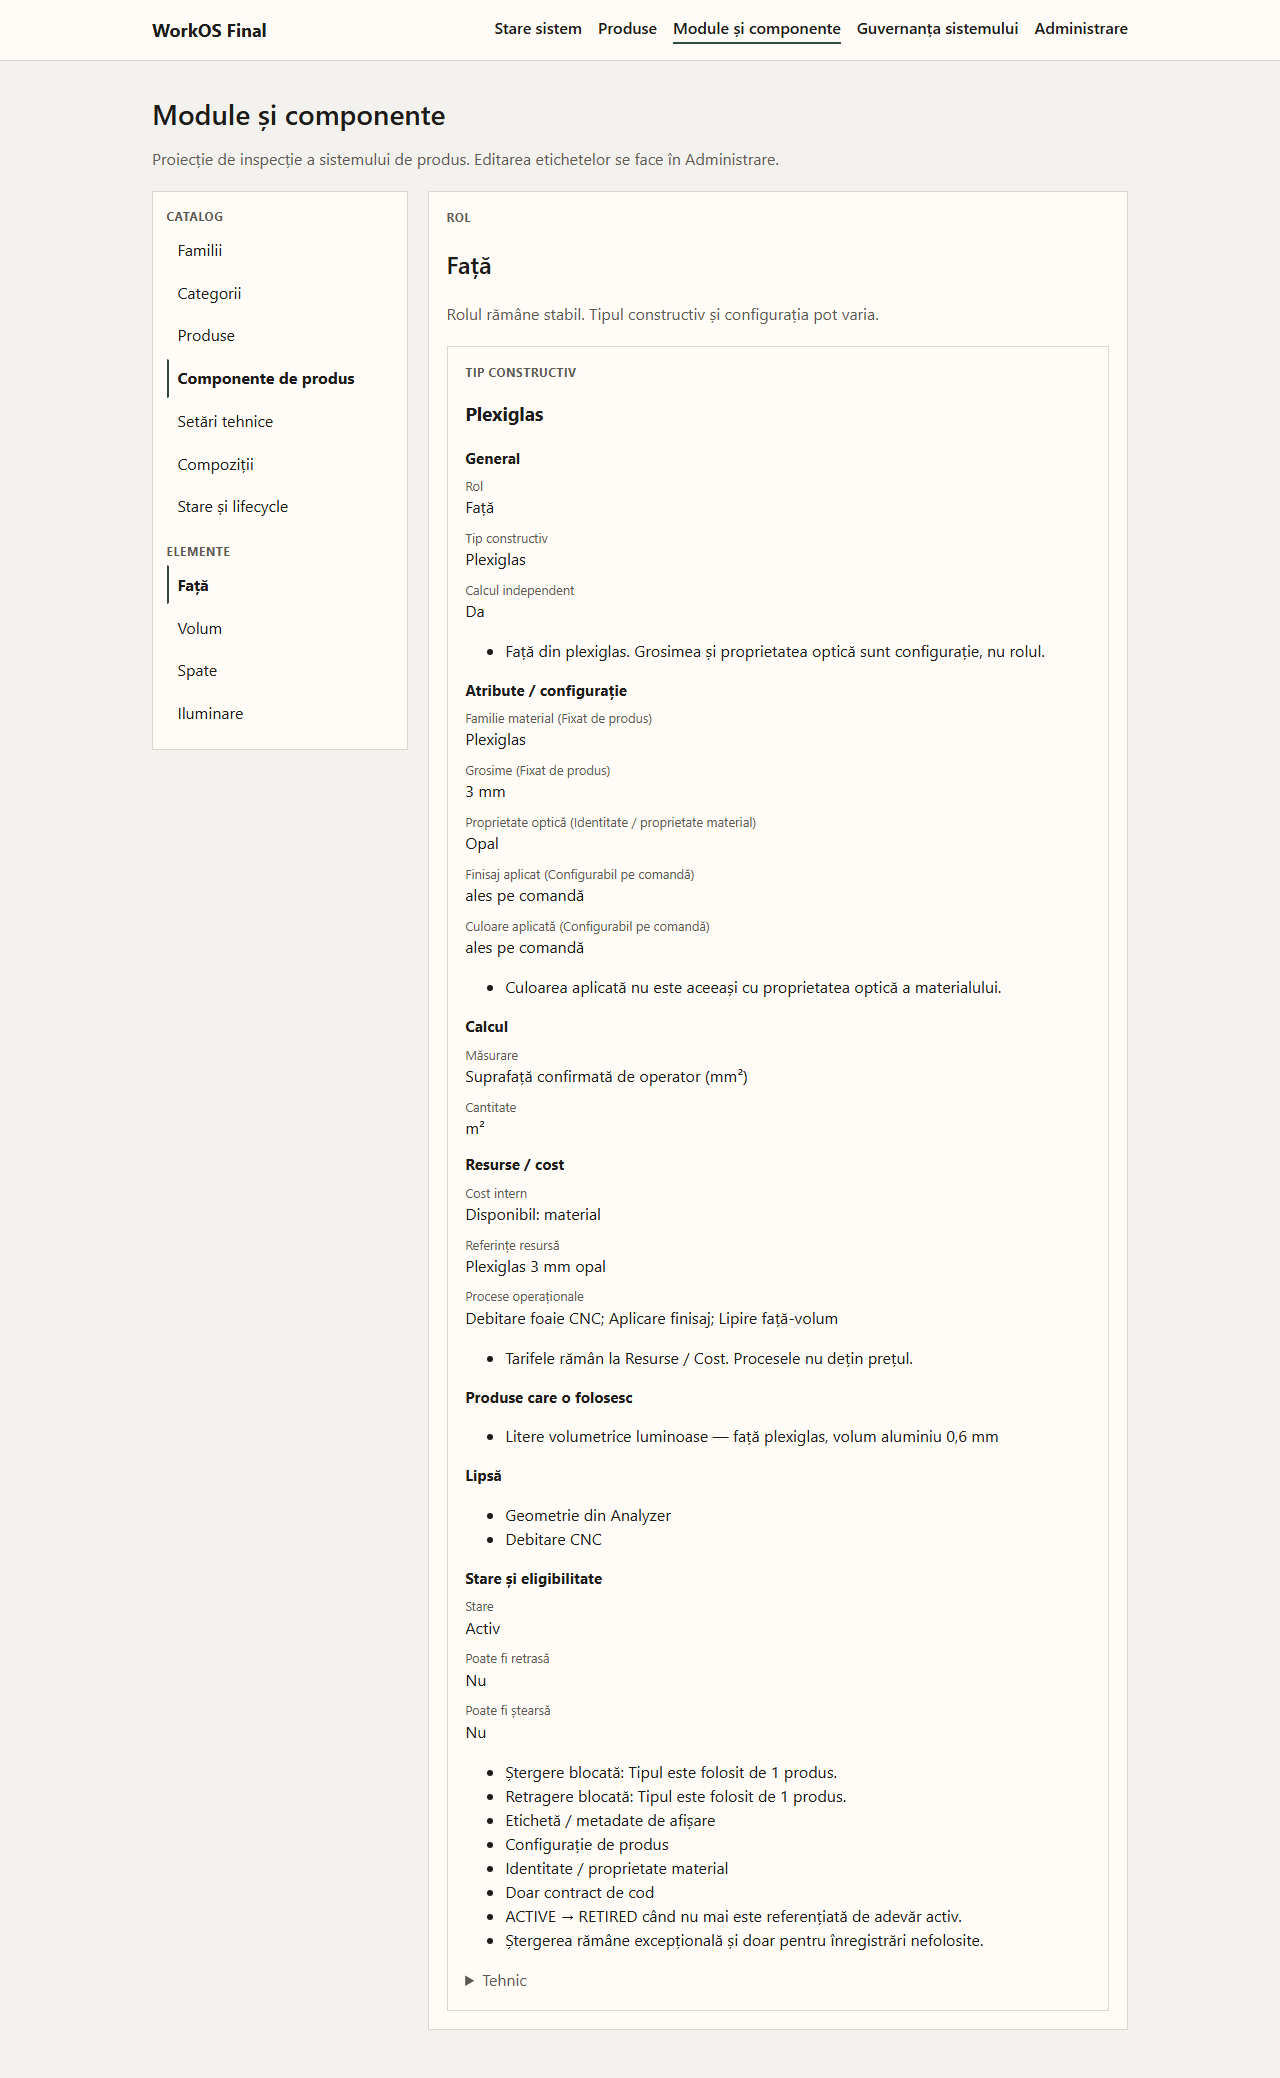
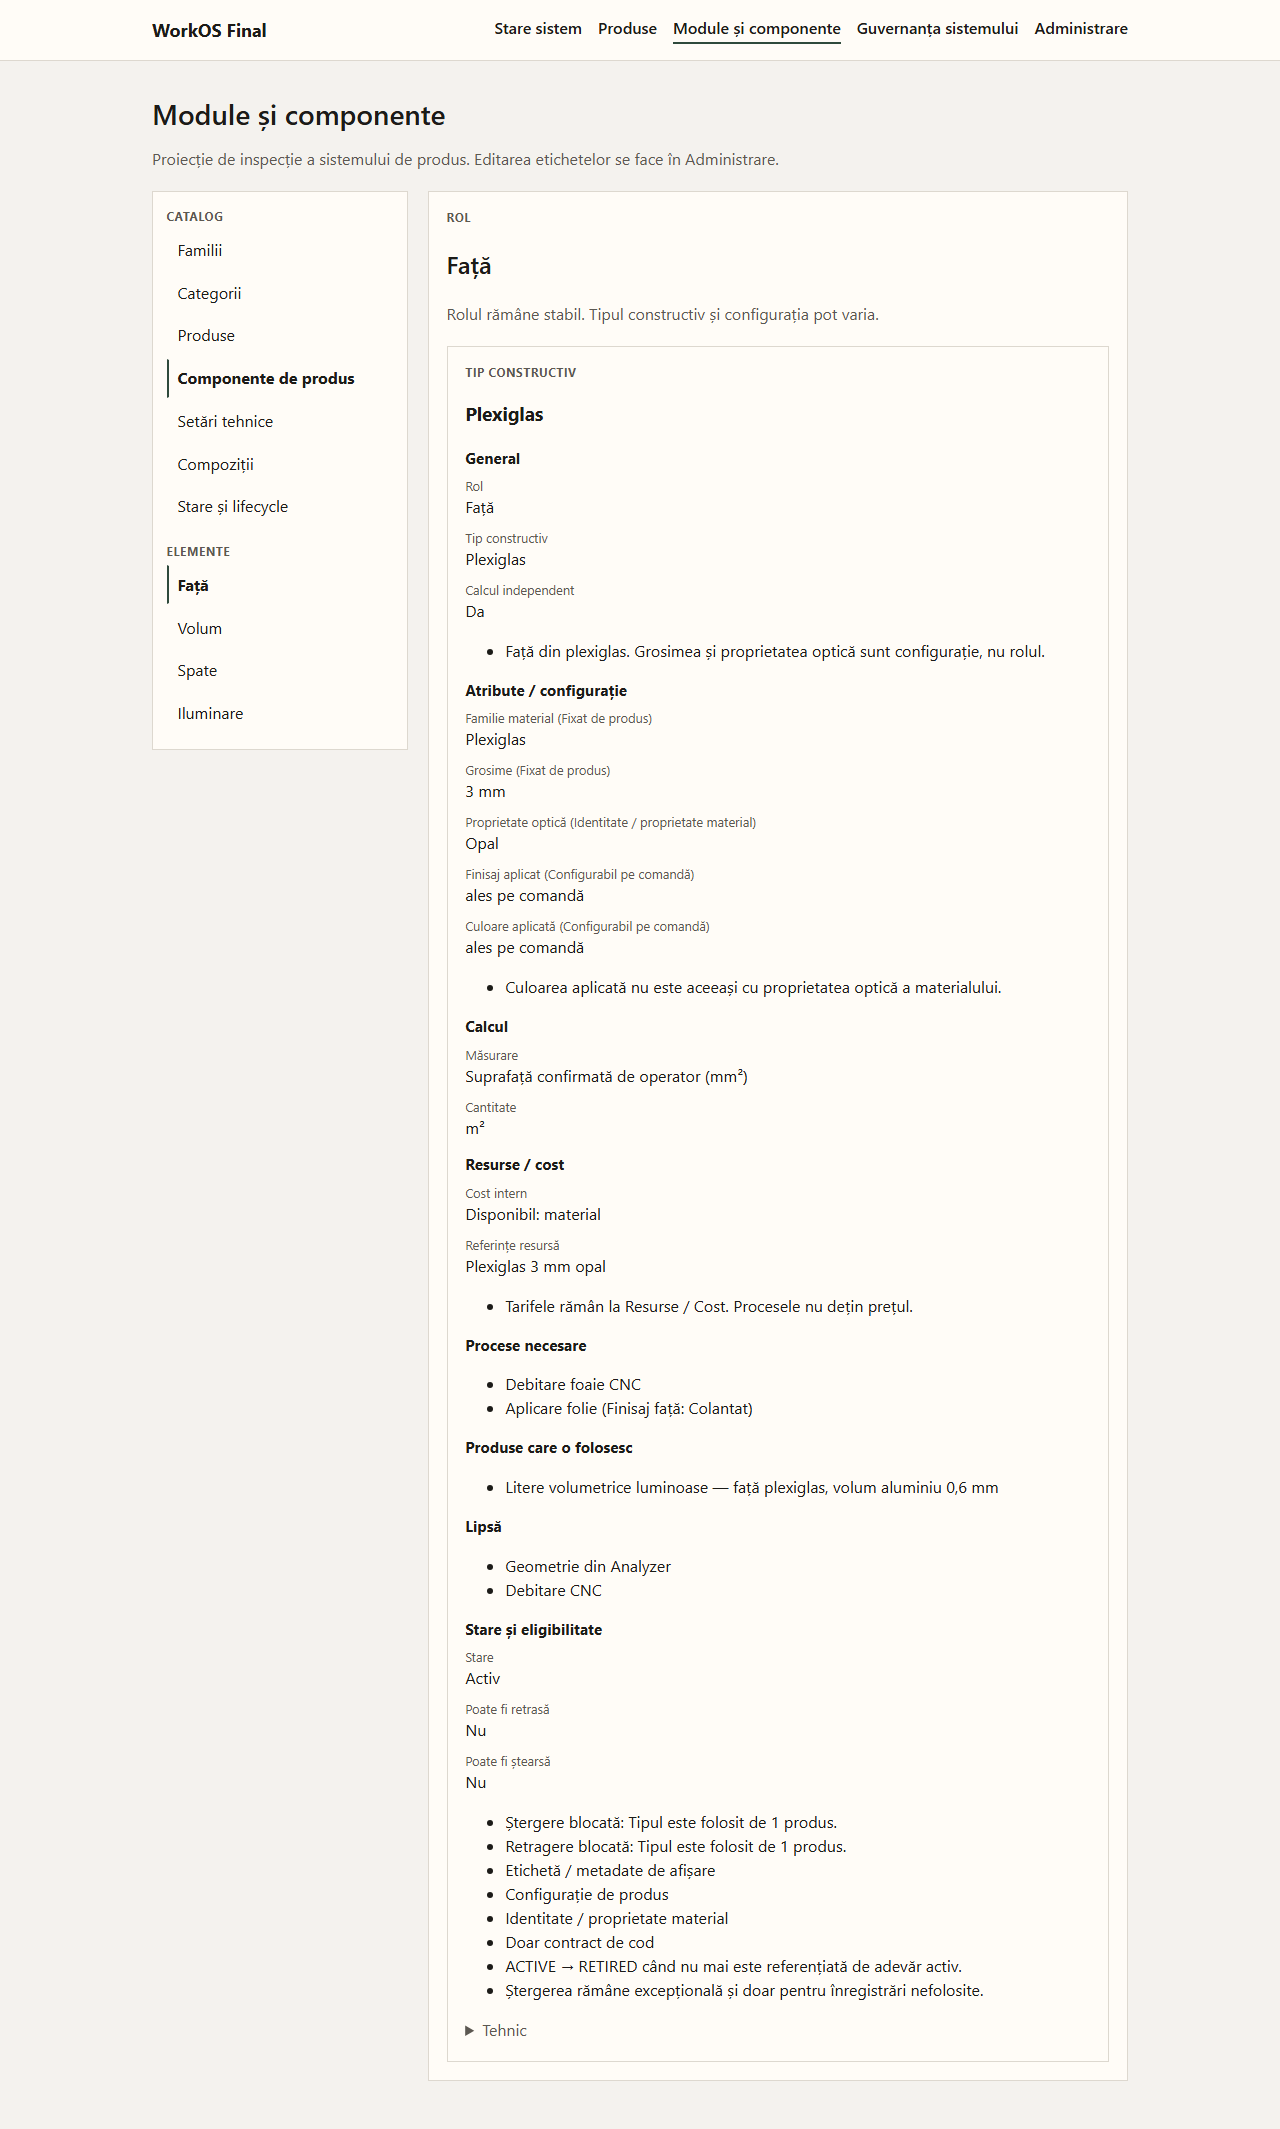
docs: record Letters process composition
Canon now separates process definition from technological composition and keeps ExecutionPlan unimplemented.

diff --git a/docs/worklog/WORKOS_FINAL_LETTERS_PROCESS_COMPOSITION_V1.md b/docs/worklog/WORKOS_FINAL_LETTERS_PROCESS_COMPOSITION_V1.md
@@ -1,0 +1,110 @@
+# WORKOS_FINAL_LETTERS_PROCESS_COMPOSITION_V1
+
+## Baseline
+
+- Repo: `office952/workos-final`
+- Branch: `main`
+- Expected baseline: `b15aafb7250ffd04e9f74ef05a0dc1e02e1cfffb`
+
+## Evidence audit
+
+Current product: `PRD-LETTERS-FRONTLIT-PLEXI-AL06`.
+FACE finish is `none | vinyl`. VOLUME finish is `none | vinyl | painted`.
+All four roles are required.
+
+`office952/workos-vscode` was not used as a writable source. Owner-confirmed current canon wins over any legacy task catalog. Owner evidence used for vinyl-before-forming on VOLUME. Painted/RAL order is not invented.
+
+## Composition law
+
+```text
+PROCESS DEFINITION ≠ PROCESS COMPOSITION ≠ EXECUTION INSTANCE
+```
+
+One compiler: `composeProductProcesses`.
+Component types expose the same requirement contract standalone and in the product.
+The product adds `BODY:BOND_LETTER_BODY` and explicit dependency edges.
+No DAG on ProductTemplate. No DAG inside ProductAggregate / `calculate()`.
+
+## Letters composition
+
+| Node | Classification | Notes |
+|---|---|---|
+| `FACE:CUT_SHEET_CNC` | REQUIRED_ALWAYS | Required, incomplete (no CNC geometry/price) |
+| `FACE:APPLY_SURFACE_FINISH` | REQUIRED_CONDITIONALLY | Only `face.finish = vinyl` |
+| `VOLUME:APPLY_SURFACE_FINISH` | REQUIRED_CONDITIONALLY | Only `volume.finish = vinyl`; before forming |
+| `VOLUME:FORM_ALUMINIUM_PROFILE` | REQUIRED_ALWAYS | Live service cost remains in Resources |
+| `BACK:CUT_SHEET_CNC` | REQUIRED_ALWAYS | Same process definition, distinct node |
+| `BODY:BOND_LETTER_BODY` | REQUIRED_ALWAYS when FACE+VOLUME selected | Depends on prepared FACE and formed VOLUME |
+| `LIGHTING:PLACE_LED_MODULES` | REQUIRED_ALWAYS | Required but blocked (PSU / lighting) |
+
+Painted volume is not vinyl. Missing process `paint-volume` = `UNKNOWN_OWNER_DECISION`.
+
+`APPLY_SURFACE_FINISH` label is now **Aplicare folie**. Capability stays `VINYL_APPLICATION`.
+
+## Derived order
+
+Topological projection only. No global sequence authority.
+
+Typical vinyl order includes: FACE cut → FACE vinyl; VOLUME vinyl → VOLUME form; then BODY bond. BACK cut is parallel. Lighting has no invented electrical/closure edges.
+
+## Missing processes
+
+| Gap | Classification |
+|---|---|
+| Vopsire volum | UNKNOWN_OWNER_DECISION |
+| Cablare electrică | LATER |
+| Montare sursă de alimentare | BLOCKED |
+| Închidere corp / prindere spate | LATER |
+| Probă funcțională | LATER |
+| Control calitate | LATER |
+| Ambalare | LATER |
+
+Completeness: **BLOCKED**. Not production-ready.
+
+## UI
+
+`/admin` → Procese operaționale → Compoziții produse:
+Fără finisaj / Colantat față și volum / Volum vopsit.
+
+Romanian labels: Proces, Depinde de, Condiție, Componentă/secțiune, Stare, Blocaj.
+IDs stay under Tehnic.
+`/components` shows the type contract (always + conditional vinyl), not the full graph and not bonding on FACE.
+
+## API
+
+- `GET /api/operational-processes` includes `compositions`
+- `GET /api/products/:productCode/process-composition` read-only
+- No write. No persistence.
+
+## Tests
+
+- `pnpm lint` PASS
+- `pnpm typecheck` PASS
+- `pnpm test` PASS (domain 97, api 18, web 17)
+- `pnpm build` PASS
+- `pnpm e2e` PASS (7)
+- `git diff --check` PASS
+
+Canonical product EIC remains 320.50 EUR PARTIAL.
+
+## UI opinion
+
+Owner can see what is required, why it is blocked, and what depends on what without DAG vocabulary.
+Derived order is readable. Vinyl vs none vs painted branches are honest.
+Narrow viewport stays usable but long. ACM would need grouping or collapse, not a second graph editor.
+
+## Persistence
+
+Typed compiler. No composition SQLite table. No owner process edits.
+
+## Remaining gaps
+
+- Critical missing Letters processes (paint, closure)
+- Workcenters / Machines
+- Lighting after PSU
+- Labor / service recipes
+- ExecutionPlan compiler
+
+## Next recommendation
+
+Re-evaluate among: fill critical missing Letters processes, Workcenters/Machines foundation, Lighting completion after PSU, labor/service recipes, ExecutionPlan compiler foundation. Do not auto-pick.

diff --git a/docs/architecture/OPERATIONAL_PROCESSES_CANON.md b/docs/architecture/OPERATIONAL_PROCESSES_CANON.md
@@ -1,6 +1,6 @@
 # Operational Processes canon
 
-Canonical current law for reusable operational process definitions and shop-floor capability classes.
+Canonical current law for reusable operational process definitions, shop-floor capability classes, and product/component process composition.
 Runtime wins if this document disagrees.
 
 ## Permanent separation
@@ -48,11 +48,35 @@ Kinds in this foundation: MACHINE, WORKSTATION, HUMAN_SKILL.
 
 A process is reusable. `CUT_SHEET_CNC` applies to FACE and BACK.
 
-ProductTemplate / component composition will later choose required processes.
-Dependencies belong to that composition, not to a global 1/2/3 sequence.
+```text
+PROCESS DEFINITION
+  ≠ PROCESS COMPOSITION
+  ≠ EXECUTION INSTANCE
+```
 
-There must be exactly one future process-composition source. It compiles into ExecutionPlan.
-Rejected parallel authorities: dossier task rules, Intake dry-run tasks, separate product-graph task lists.
+Process definition says HOW work can be performed.
+Process composition says which processes a resolved product/component configuration requires, under what conditions, and what depends on what.
+ExecutionPlan is a later instance for a frozen concrete order. It is not implemented.
+
+There is exactly one composition authority: the typed compiler in `packages/domain/src/processes/`.
+Rejected parallel authorities: dossier task rules, Intake dry-run tasks, frontend task arrays, ProductTemplate local operation lists, separate product-graph task lists.
+
+Ownership:
+
+```text
+Component type
+  → process requirement contract (same standalone and in a product)
+Product process composition
+  → collects selected type requirements
+  → adds cross-component nodes and dependency edges
+```
+
+`BOND_LETTER_BODY` is a product-level BODY node. It is not a FACE or VOLUME type requirement.
+Node identity is `scope:processId` (example: `FACE:CUT_SHEET_CNC` and `BACK:CUT_SHEET_CNC`). `processId` alone is not unique.
+
+Dependencies are explicit edges. A derived topological order may be shown for readability. Global `sequence: 1,2,3` is not authority.
+
+`APPLY_SURFACE_FINISH` means vinyl/folie only. Painted volume is not this process.
 
 ## Resource / cost boundary
 
@@ -78,13 +102,17 @@ They are linked, not merged.
 | `BOND_LETTER_BODY` | ASSEMBLY | MANUAL_ASSEMBLY | FACE, VOLUME | PLANNED |
 | `PLACE_LED_MODULES` | ELECTRICAL | ELECTRICAL_ASSEMBLY | LIGHTING | BLOCKED |
 
-QC, packing, installation prep, and a full Letters DAG are not modelled.
+QC, packing, closure, electrical wiring, PSU installation, and paint remain missing-process gaps, not silent omissions.
+
+Letters composition completeness is currently BLOCKED (lighting required but technically blocked; CNC/finish/bond incomplete).
 
 ## Persistence and administration
 
-Typed catalog is authority. No process write. No SQLite process table.
+Typed catalog and typed composition compiler are authority. No process write. No composition graph DB. No SQLite process table.
 
-`/admin` → Procese operaționale is inspection: Categorii, Procese, Capabilități necesare.
+`/admin` → Procese operaționale is inspection: Categorii, Procese, Compoziții produse, Capabilități necesare.
+`GET /api/products/:productCode/process-composition` is read-only.
+`/components` shows the type process-requirement contract, not the full product graph.
 `/products` does not administer processes.
 
 ## Reserved, not implemented

diff --git a/AGENTS.md b/AGENTS.md
@@ -8,7 +8,7 @@ It is not a cleanup or fork of previous WorkOS repositories.
 Hierarchical product catalog plus first canonical LETTERS product.
 FACE / VOLUME / BACK / LIGHTING are stable component roles. Constructive types and product configuration are separate. See `docs/architecture/PRODUCT_SYSTEM_COMPONENT_CONFIGURATION_CANON.md`.
 Owner-facing projections: Module și componente, Guvernanța sistemului, Administrare.
-`/components` is the Product System inspection surface. `/admin` is the owner surface: Product System display-label write, Resources / Cost inspection, and Operational Processes inspection. The first persisted write is display-label only.
+`/components` is the Product System inspection surface. `/admin` is the owner surface: Product System display-label write, Resources / Cost inspection, and Operational Processes inspection including Letters process composition. The first persisted write is display-label only.
 Cross-system domain and administration map is canonical; do not invent a second admin model per domain.
 ProductTemplate composes roles/types and owns allowed/fixed configuration. ProductAggregate orchestrates. EIC is generic.
 LIGHTING remains unavailable: LED pitch is a canonical component setting; PSU reserve remains owner-undecided.
@@ -44,4 +44,4 @@ Do not implement Commercial, Quote, ACM, Analyzer runtime, a second catalog prod
 
 ## Bootstrap proof
 
-The current app has a platform shell, a real health check, a product catalog, Product System inspection on `/components`, persisted display-label administration on `/admin`, Resources / Cost inspection under `/admin/resources`, Operational Processes inspection under `/admin/processes`, owner-facing governance, one canonical front-lit plexi/aluminium letters product, component-owned FACE / VOLUME / BACK calculations with partial internal EIC, a reusable material-family/specification catalog, a typed operational-process catalog with shop-floor capability classes, canonical component technical settings, and lighting left unavailable because PSU reserve is still owner-undecided.
+The current app has a platform shell, a real health check, a product catalog, Product System inspection on `/components`, persisted display-label administration on `/admin`, Resources / Cost inspection under `/admin/resources`, Operational Processes inspection under `/admin/processes` including Letters process composition, owner-facing governance, one canonical front-lit plexi/aluminium letters product, component-owned FACE / VOLUME / BACK calculations with partial internal EIC, a reusable material-family/specification catalog, a typed operational-process catalog with shop-floor capability classes, a deterministic Letters process-composition compiler, canonical component technical settings, and lighting left unavailable because PSU reserve is still owner-undecided.

diff --git a/docs/architecture/WORKOS_FINAL_SYSTEM_DOMAIN_AND_ADMINISTRATION_MAP.md b/docs/architecture/WORKOS_FINAL_SYSTEM_DOMAIN_AND_ADMINISTRATION_MAP.md
@@ -76,10 +76,11 @@ WorkOS Final
 │   ├── Resource identity
 │   ├── Cost evidence / rates
 │   └── Labor / service recipes             PLANNED
-├── Operational Processes                   FOUNDATION_ONLY (typed catalog)
+├── Operational Processes                   FOUNDATION_ONLY (typed catalog + Letters composition)
 │   ├── Process definition
 │   ├── Production capability class
-│   └── Component applicability
+│   ├── Component process requirements
+│   └── Product process composition         FOUNDATION_ONLY (deterministic, not ExecutionPlan)
 ├── Governance / owner projections          IMPLEMENTED_CURRENT (read-only)
 ├── Analyzer                                NOT_IMPLEMENTED (separate app; proposal only)
 ├── Commercial                              PLANNED
@@ -113,7 +114,7 @@ Capability kernel IDs stay frozen and `PLANNED`. That does not mean the first pr
 | Form / Intake | Schema, fields, visibility, order-specific operator input | System technical settings, formulas, rates, Product Truth |
 | Truth compiler | ProductDefinition, confirmation of the reviewed definition, ProductTruth, ProductAggregate | Resource catalogs, commercial price, actuals |
 | Resources / Cost | Resource identity, material family/spec, cost evidence, EIC | Process identity, customer price, stock, Product Truth, attendance |
-| Operational Processes | Process definition, required capability class, type applicability | Resource price, ExecutionTask, machine identity, employee |
+| Operational Processes | Process definition, required capability class, type applicability, product/component process composition | Resource price, ExecutionTask, machine identity, employee |
 | Commercial | Customer price rules, Quote Snapshot, Order commercial freeze | EIC authority, ProductTemplate, execution actuals |
 | Execution | Plan, tasks, assignments, MachineRun, operational actuals | Attendance truth, rewriting Product Truth, historical commercial reprice |
 | People | Employee master, attendance / Pontaj, payments, advances | Execution session, labor recipe / cost basis, Product Truth |

diff --git a/docs/README.md b/docs/README.md
@@ -11,7 +11,7 @@ These describe the live system. If they disagree with runtime, the runtime wins 
 - `docs/architecture/PRODUCT_SYSTEM_COMPONENT_CONFIGURATION_CANON.md` — role / type / configuration law
 - `docs/architecture/PRODUCT_SYSTEM_PERSISTENCE_CANON.md` — persisted display metadata and first write path
 - `docs/architecture/RESOURCES_AND_COST_CANON.md` — resource identity, material family/spec, cost evidence
-- `docs/architecture/OPERATIONAL_PROCESSES_CANON.md` — process definition and shop-floor capability class
+- `docs/architecture/OPERATIONAL_PROCESSES_CANON.md` — process definition, shop-floor capability class, and Letters process composition
 - `docs/architecture/WORKOS_FINAL_SYSTEM_DOMAIN_AND_ADMINISTRATION_MAP.md` — cross-system domain and administration map
 - `docs/worklog/WORKOS_FINAL_COMPONENT_FIRST_CALCULATION_ARCHITECTURE_V1.md` — current calculation ownership
 - `docs/worklog/WORKOS_FINAL_COMPONENTS_AND_GOVERNANCE_PROJECTION_V1.md` — owner-facing projections
@@ -23,6 +23,7 @@ These describe the live system. If they disagree with runtime, the runtime wins 
 - `docs/worklog/WORKOS_FINAL_PRODUCT_SYSTEM_PERSISTENCE_AND_FIRST_WRITE_PATH_V1.md` — first persisted display-label write
 - `docs/worklog/WORKOS_FINAL_RESOURCES_AND_COST_CATALOG_FOUNDATION_V1.md` — Resources / Cost catalog foundation
 - `docs/worklog/WORKOS_FINAL_OPERATIONAL_PROCESSES_FOUNDATION_V1.md` — Operational Processes foundation
+- `docs/worklog/WORKOS_FINAL_LETTERS_PROCESS_COMPOSITION_V1.md` — Letters process composition
 
 ## Historical evidence
 

diff --git a/README.md b/README.md
@@ -6,7 +6,7 @@ This is not a cleanup of previous WorkOS code and not a fork of workflow-adv.
 
 ## Current status
 
-Product catalog plus first canonical LETTERS product, with FACE / VOLUME / BACK / LIGHTING as roles, reusable constructive types, Product System inspection on `/components`, persisted display-label administration on `/admin`, Resources / Cost inspection on `/admin/resources`, Operational Processes inspection on `/admin/processes`, owner-facing governance, canonical component technical settings, and lighting left incomplete because PSU reserve is still owner-undecided.
+Product catalog plus first canonical LETTERS product, with FACE / VOLUME / BACK / LIGHTING as roles, reusable constructive types, Product System inspection on `/components`, persisted display-label administration on `/admin`, Resources / Cost inspection on `/admin/resources`, Operational Processes inspection on `/admin/processes` including Letters process composition, owner-facing governance, canonical component technical settings, and lighting left incomplete because PSU reserve is still owner-undecided.
 
 The app has a platform shell, a real health check, a hierarchical product catalog, and a schema-driven configuration flow for the first canonical product. Product System display labels persist in local SQLite after bootstrap. Resources remain a typed catalog. Technical settings, lifecycle, resource cost, and commercial price are not writable yet.
 

diff --git a/docs/roadmap/WORKOS_FINAL_ROADMAP_V1.md b/docs/roadmap/WORKOS_FINAL_ROADMAP_V1.md
@@ -42,6 +42,7 @@ Owner-facing projections exist for components, governance, Product System admini
 ProductAggregate orchestrates. EIC consumes generic requirements.
 Resources now separate material family, specification, service, and cost evidence.
 Operational Processes now separate HOW work is done from WHAT is consumed.
+Letters now has one deterministic technological process composition. That composition is not an ExecutionPlan.
 LIGHTING remains technically partial: LED pitch is a canonical component setting; PSU reserve remains unresolved.
 VOLUME EIC regression preserved (formerly RETURN_CANT).
 
@@ -71,6 +72,7 @@ Cross-system ownership: `docs/architecture/WORKOS_FINAL_SYSTEM_DOMAIN_AND_ADMINI
 | Product System first real admin write path (display label) | DONE / FOUNDATION |
 | Resources / Cost catalog foundation (identity, family/spec, service, cost evidence) | DONE / FOUNDATION |
 | Operational Processes foundation (process + capability class) | DONE / FOUNDATION |
+| Letters process composition (requirements, conditions, dependencies) | DONE / FOUNDATION |
 | Resources admin write / process admin write | NOT_IMPLEMENTED |
 | Lighting calculation | V1 REQUIRED after PSU owner decision |
 | People, Machines, Pontaj, Execution | LATER |
